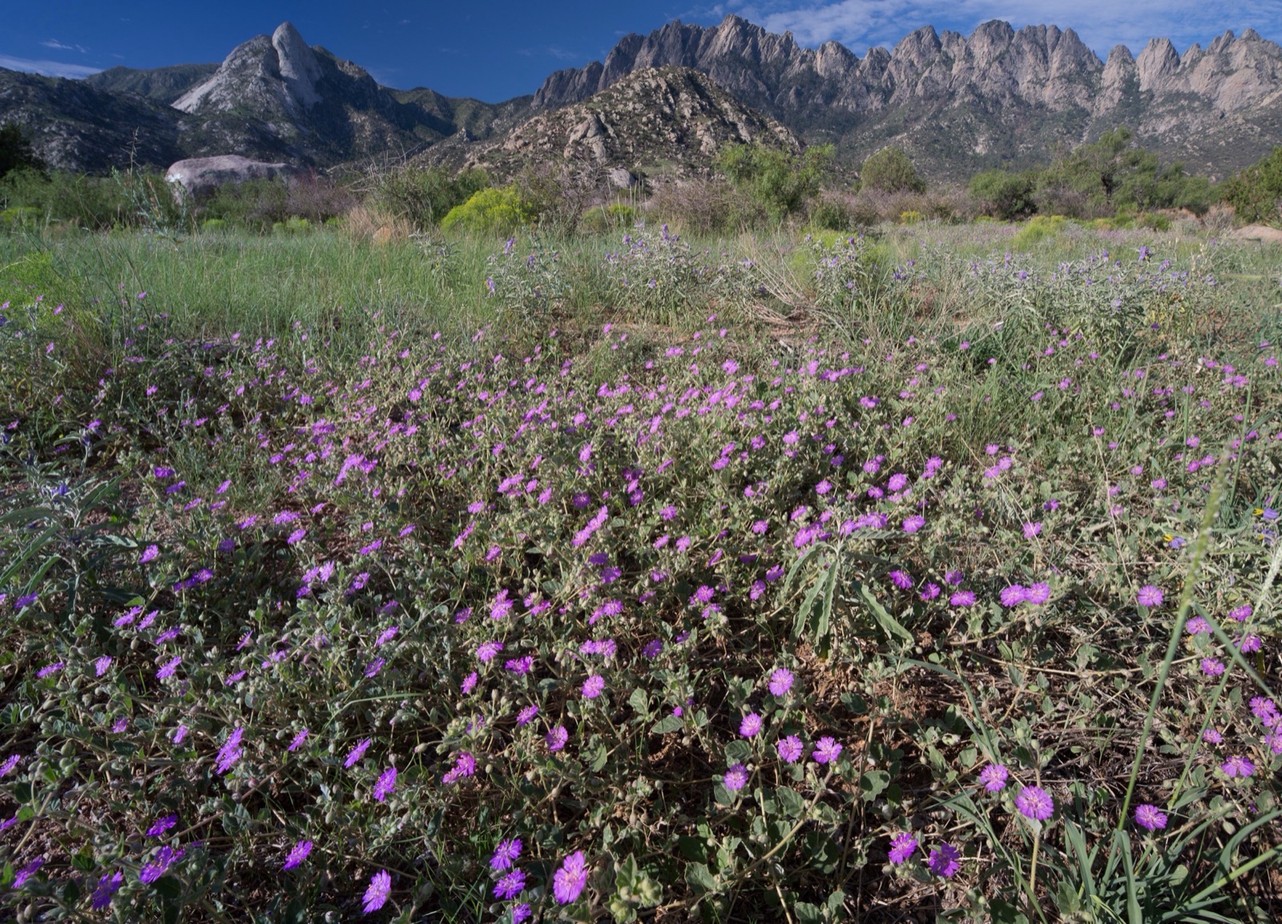
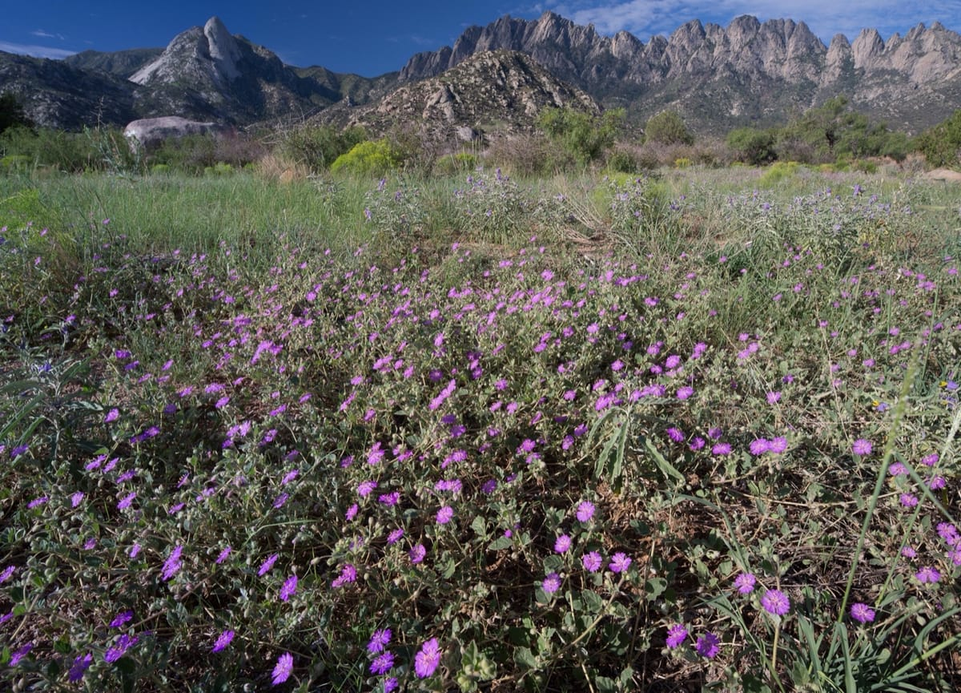
Fix mobile layout shift, heading order and oversized home hero image (#11)
- Add the .js class inline in <head> so the mobile nav paints collapsed.
  nav.js added it only after load, so every page first painted with the
  menu open and then snapped shut (CLS 0.28 on every page at phone width).
- Add visually hidden h2s above the home services grid and the careers
  openings so the h3 cards don't skip a heading level.
- Resize the home hero photo from 1600px (918 KB) to 1200px (279 KB); it
  displays at most ~416px wide. Home LCP went from 7.2 s to 3.0 s in
  Lighthouse mobile.

diff --git a/src/_includes/js/nav.js b/src/_includes/js/nav.js
@@ -1,6 +1,8 @@
 // Collapses the primary nav behind a "Menu" button on narrow screens (see
 // .nav-toggle in components.scss). The .js class gates that CSS, so with
 // scripts off the nav simply stays expanded rather than becoming unreachable.
+// base.njk also adds .js inline in <head> so the menu paints collapsed (no
+// layout shift); adding it here again is harmless.
 (function () {
   var header = document.querySelector(".site-header");
   var toggle = header && header.querySelector(".nav-toggle");

diff --git a/src/_includes/css/components.scss b/src/_includes/css/components.scss
@@ -87,7 +87,7 @@
     }
   }
 
-  // Menu button: hidden on wide screens and whenever JS is off (nav.js adds
+  // Menu button: hidden on wide screens and whenever JS is off (base.njk adds
   // .js to <html>), so the nav never ends up unreachable. Below 70rem the
   // 8-link nav wraps (three rows on a phone, pushing the hero a third of the
   // way down the screen; two rows on a tablet in Spanish, whose labels are
